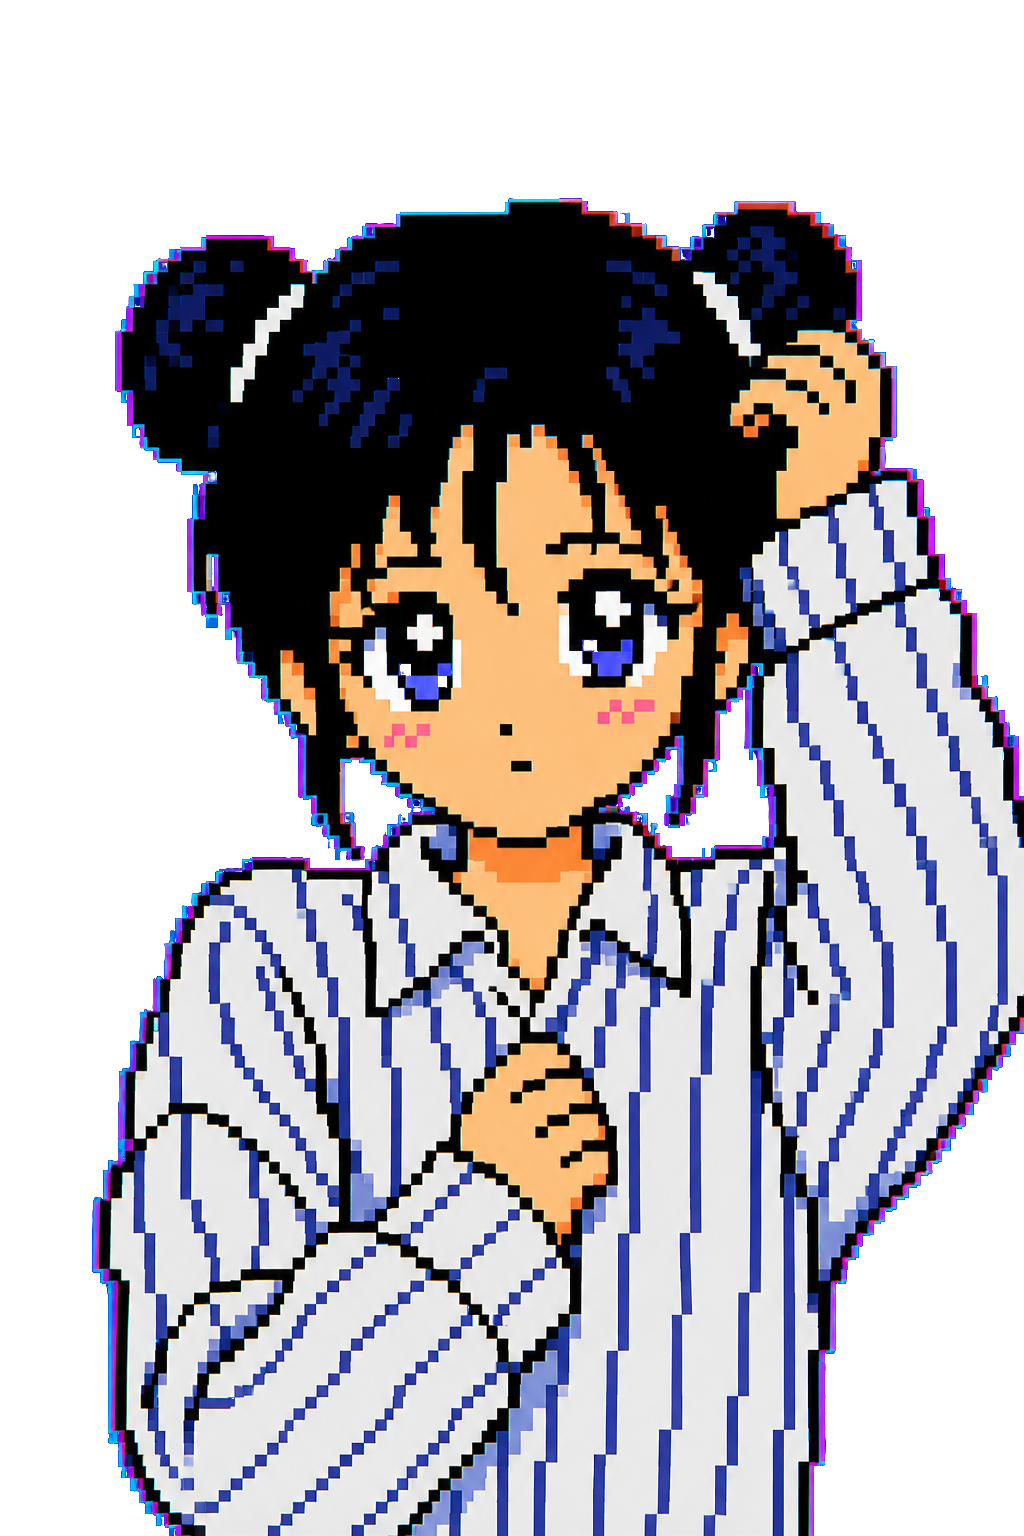
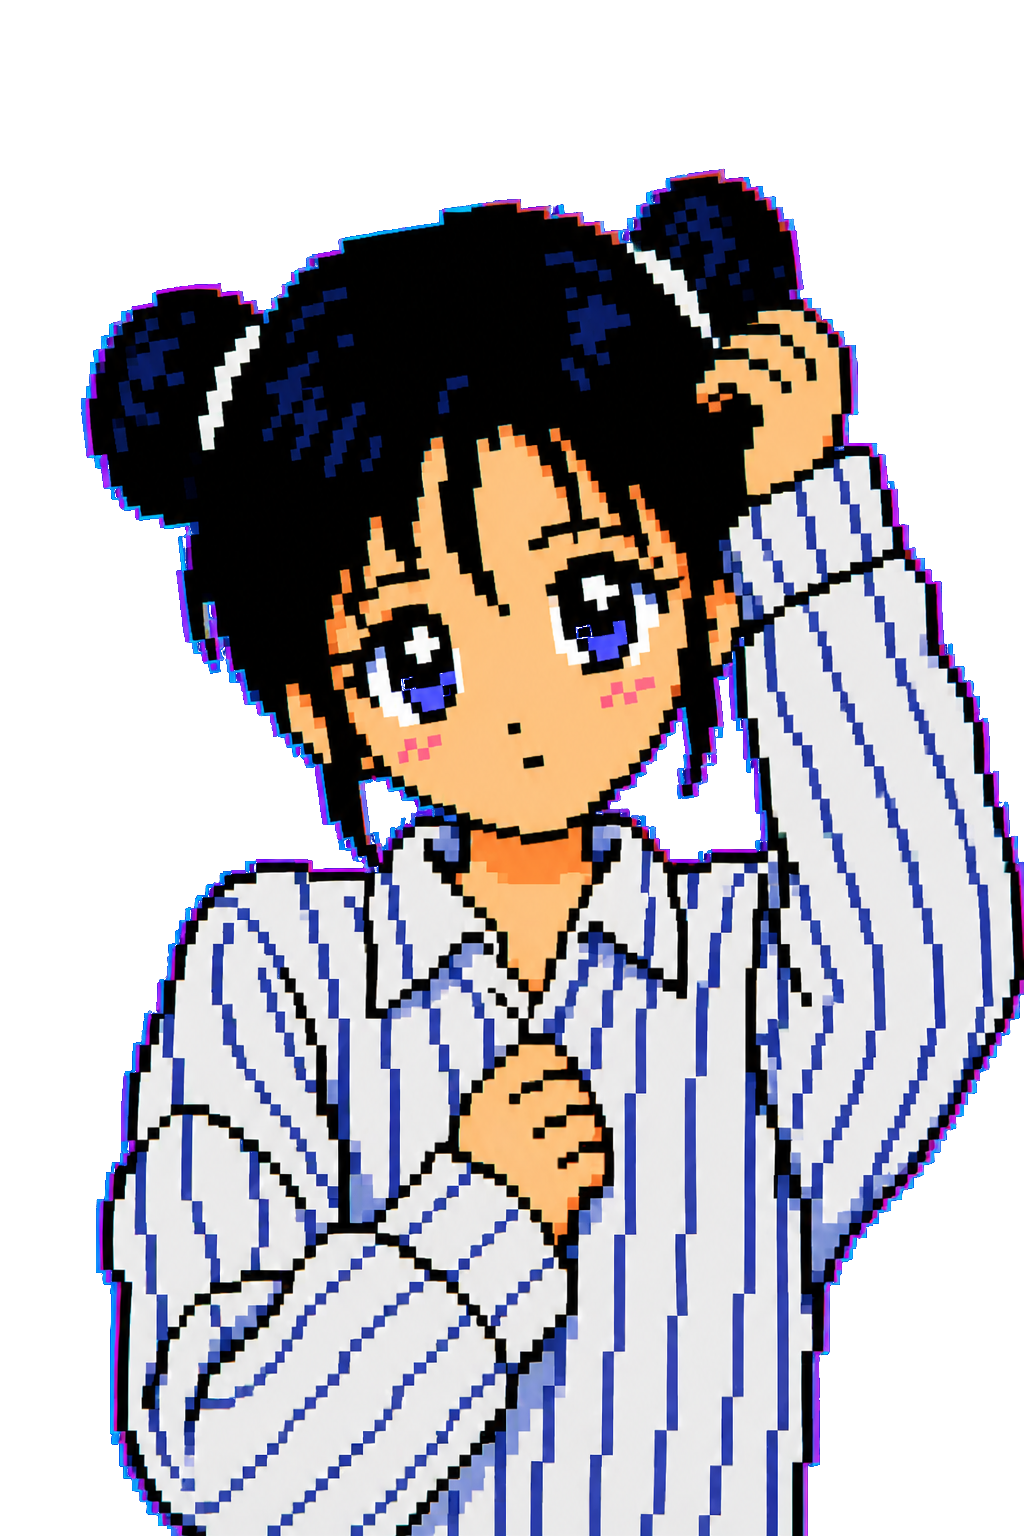
Use a finer vertical grunge CRT and a face-tilted girl.
The overlay is a tight 2px grille plus a 3px layer for moiré.
The sprite is redrawn so only her head leans left; the image stays upright.

diff --git a/src/styles/app.css b/src/styles/app.css
@@ -123,21 +123,28 @@ a:hover {
 .crt-scanlines {
   position: absolute;
   inset: 0;
-  background:
+  background-color: transparent;
+  background-image:
+    url("/img/crt-grunge.png"),
     repeating-linear-gradient(
       90deg,
-      rgba(0, 0, 0, 0.32) 0px,
-      rgba(0, 0, 0, 0.32) 1px,
+      rgba(0, 0, 0, 0.2) 0px,
+      rgba(0, 0, 0, 0.2) 1px,
       transparent 1px,
       transparent 2px
     ),
     repeating-linear-gradient(
       90deg,
-      rgba(255, 40, 80, 0.08) 0px,
-      rgba(40, 255, 90, 0.05) 1px,
-      rgba(50, 90, 255, 0.08) 2px
+      rgba(0, 0, 0, 0.1) 0px,
+      rgba(0, 0, 0, 0.1) 1px,
+      transparent 1px,
+      transparent 3px
     );
-  opacity: 0.85;
+  background-repeat: repeat;
+  background-size: 2px 512px, auto, auto;
+  image-rendering: pixelated;
+  image-rendering: crisp-edges;
+  opacity: 1;
 }
 
 @keyframes crt-flicker {
@@ -305,8 +312,7 @@ a:hover {
   position: absolute;
   left: 50%;
   bottom: calc(100% - 76px);
-  transform: translateX(-50%) rotate(-7deg);
-  transform-origin: 50% 78%;
+  transform: translateX(-50%);
   width: 230px;
   height: auto;
   z-index: 0;

diff --git a/src/components/DetailPanel.tsx b/src/components/DetailPanel.tsx
@@ -281,7 +281,7 @@ export default function DetailPanel({
       <div className="page-container">
         <img
           className="menu-girl"
-          src="/img/menu-girl.png?v=2"
+          src="/img/menu-girl.png?v=3"
           alt=""
           aria-hidden
         />
